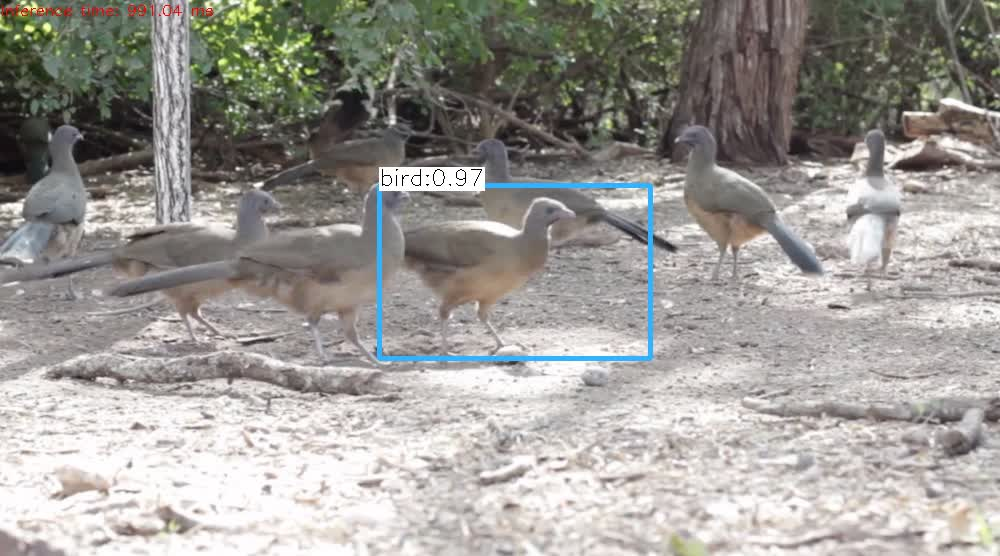
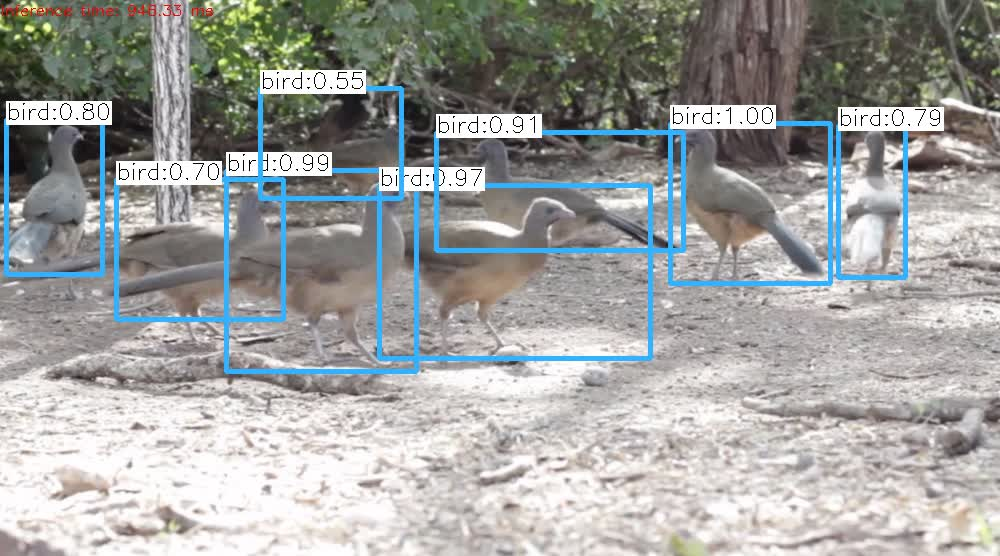
# Implemented MQTT in OpenCV YOLOv3 code

Changed region(s): [[0.0, 0.1223, 0.961, 0.6727], [0.124, 0.0, 0.186, 0.0306]]

diff --git a/ObjectDetection-YOLO/object_detection_yolo.py b/ObjectDetection-YOLO/object_detection_yolo.py
@@ -9,6 +9,15 @@ import sys
 import numpy as np
 import os.path
 import math
+import paho.mqtt.client as mqtt
+
+# Create MQTT Client Instance 
+client_name = "holoyolo"
+broker_address = "dveiot.cs.vt.edu"
+client = mqtt.Client(client_name)
+client.connect(broker_address)
+# client.publish("theia", "Racer Archi")
+
 
 # Initialize the parameters
 confThreshold = 0.5  #Confidence threshold
@@ -20,7 +29,8 @@ parser = argparse.ArgumentParser(description='Object Detection using YOLO in OPE
 parser.add_argument('--image', help='Path to image file.')
 parser.add_argument('--video', help='Path to video file.')
 parser.add_argument('--url', help='Path to remote url.')
-parser.add_argument('--single', help='To identify the centermost object.')
+parser.add_argument('--single', help='To identify the single object at the center.')
+parser.add_argument('--label', help='Send the label(s) of the object(s).')
 args = parser.parse_args()
         
 # Load names of classes
@@ -72,6 +82,8 @@ def drawPred(classId, conf, left, top, right, bottom):
     if classes:
         assert(classId < len(classes))
         label = '%s:%s' % (classes[classId], label)
+
+    client.publish("theia", label)
 
     #Display the label at the top of the bounding box
     labelSize, baseLine = cv.getTextSize(label, cv.FONT_HERSHEY_SIMPLEX, 0.5, 1)
